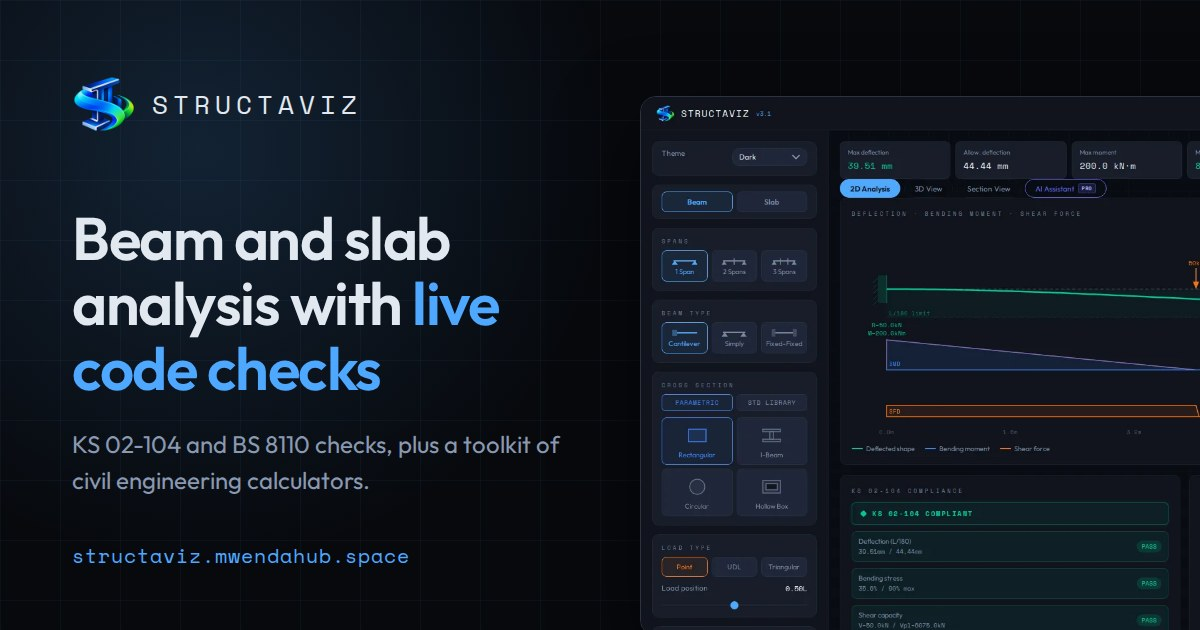
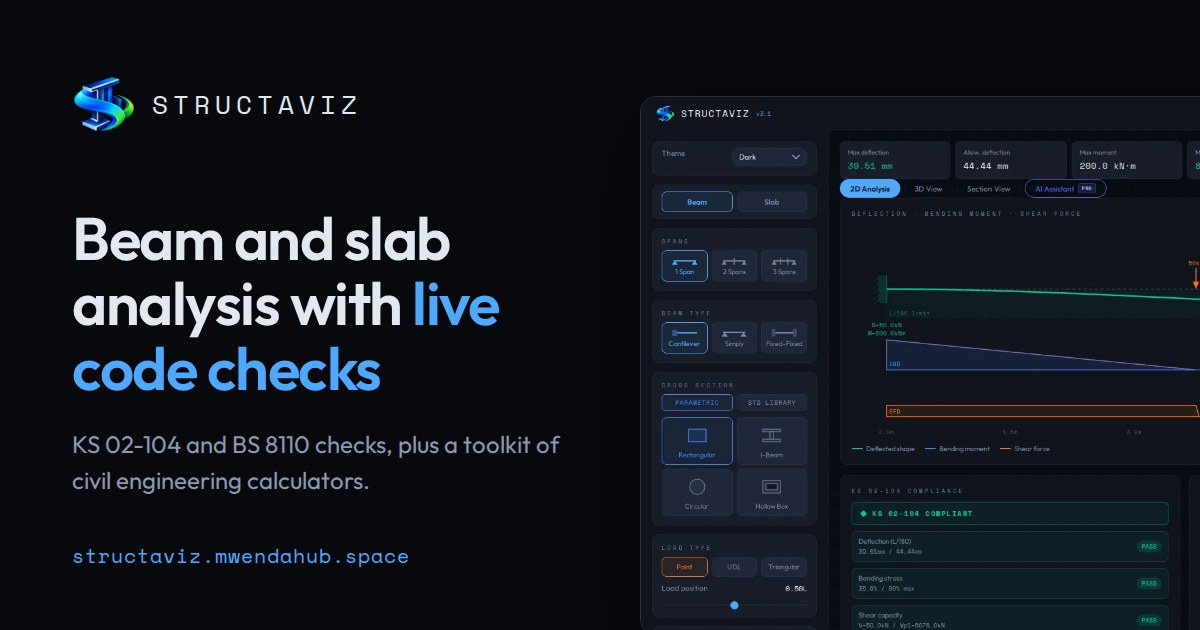
Remove gradient

Changed region(s): [[0.0308, 0.0, 0.3083, 0.5127], [0.1233, 0.5127, 0.185, 0.573]]

diff --git a/index.html b/index.html
@@ -60,8 +60,6 @@ a{color:inherit}
 
 /* ---------- Hero ---------- */
 .hero{position:relative;padding:84px 0 40px;text-align:center;overflow:hidden}
-.hero::before{content:"";position:absolute;inset:0;background-image:linear-gradient(rgba(79,168,255,.035) 1px,transparent 1px),linear-gradient(90deg,rgba(79,168,255,.035) 1px,transparent 1px);background-size:60px 60px;-webkit-mask-image:radial-gradient(ellipse 70% 60% at 50% 30%,#000,transparent);mask-image:radial-gradient(ellipse 70% 60% at 50% 30%,#000,transparent);pointer-events:none}
-.hero::after{content:"";position:absolute;width:760px;height:760px;left:50%;top:-240px;transform:translateX(-50%);background:radial-gradient(circle,rgba(79,168,255,.08),transparent 68%);pointer-events:none}
 .hero .wrap{position:relative;z-index:1}
 .eyebrow{display:inline-block;font:700 11px var(--mono);letter-spacing:.16em;text-transform:uppercase;color:var(--brand)}
 .hero .eyebrow{padding:6px 14px;border:1px solid rgba(79,168,255,.35);border-radius:999px;margin-bottom:26px}
@@ -73,12 +71,23 @@ h1 span{color:var(--brand)}
 .meta span::before{content:"";display:inline-block;width:5px;height:9px;margin-right:9px;border:solid var(--ok);border-width:0 2px 2px 0;transform:rotate(45deg) translateY(-2px)}
 
 .shot{position:relative;margin:54px auto 0;width:min(1100px,100%)}
-.frame{border:1px solid var(--bd2);border-radius:14px;overflow:hidden;background:var(--bg2);box-shadow:0 30px 80px rgba(0,0,0,.55),0 0 0 1px rgba(79,168,255,.05)}
+.frame{border:1px solid var(--bd2);border-radius:14px;overflow:hidden;background:var(--bg2);box-shadow:0 24px 60px rgba(0,0,0,.45)}
 .frame-bar{display:flex;gap:7px;padding:11px 14px;background:var(--bg3);border-bottom:1px solid var(--bd)}
 .frame-bar i{width:10px;height:10px;border-radius:50%;background:rgba(150,180,220,.22)}
 .frame img{width:100%;aspect-ratio:1440/860}
-.phone{position:absolute;right:-22px;bottom:-46px;width:21%;border:5px solid #1a2130;border-radius:26px;overflow:hidden;background:var(--bg2);box-shadow:0 24px 60px rgba(0,0,0,.6)}
-.phone img{width:100%;aspect-ratio:780/1520}
+
+/* iPhone mockup: sized from its own width, so it scales cleanly */
+.phone{position:absolute;right:-1.5%;bottom:-48px;width:23%;container-type:inline-size}
+.iphone{position:relative;background:#1d1d1f;border:.55cqw solid #48484c;border-radius:15.8cqw;padding:2.6cqw;box-shadow:0 22px 50px rgba(0,0,0,.5)}
+.iphone .sb{position:absolute;width:1cqw;background:#3a3a3e;border-radius:.5cqw;z-index:-1}
+.sb.a{left:-1.35cqw;top:19cqw;height:6cqw}.sb.v1{left:-1.35cqw;top:30cqw;height:10.5cqw}.sb.v2{left:-1.35cqw;top:43cqw;height:10.5cqw}.sb.p{right:-1.35cqw;top:36cqw;height:17cqw}
+.screen{position:relative;aspect-ratio:390/844;background:#07090d;border-radius:12.4cqw;overflow:hidden;container-type:inline-size;box-shadow:0 0 0 1.4cqw #000}
+.screen img{position:absolute;left:0;top:12.05cqw;width:100%;height:auto;aspect-ratio:780/1520}
+.island{position:absolute;z-index:2;left:50%;top:2.8cqw;width:32.3cqw;height:9.5cqw;margin-left:-16.15cqw;background:#000;border-radius:5cqw}
+.status{position:absolute;z-index:1;left:0;right:0;top:0;height:12.05cqw;display:flex;align-items:center;justify-content:space-between;padding:1.6cqw 7.2cqw 0 10cqw;color:#fff;font:600 4.15cqw/1 -apple-system,"SF Pro Text",system-ui,"Segoe UI",sans-serif}
+.status .sys{display:flex;align-items:center;gap:1.5cqw}
+.status svg{height:3.1cqw;width:auto;fill:currentColor;display:block}
+.home{position:absolute;z-index:2;left:50%;bottom:2.3cqw;width:35cqw;height:1.35cqw;margin-left:-17.5cqw;border-radius:2cqw;background:#fff;opacity:.9}
 
 /* ---------- Sections ---------- */
 section{padding:92px 0}
@@ -97,7 +106,7 @@ h2{font:600 clamp(28px,3.6vw,40px)/1.15 var(--sans);letter-spacing:-.02em;margin
 
 /* Pro */
 .pro{padding:0 0 92px}
-.pro-box{border:1px solid var(--pro-bd);border-radius:18px;padding:40px;background:linear-gradient(135deg,rgba(99,102,241,.10),rgba(99,102,241,.02) 60%)}
+.pro-box{border:1px solid var(--pro-bd);border-radius:18px;padding:40px;background:var(--bg2)}
 .pro-top{display:flex;align-items:center;gap:12px;flex-wrap:wrap}
 .badge{font:700 10px var(--mono);letter-spacing:.14em;padding:3px 9px;border-radius:5px;color:var(--pro);background:rgba(99,102,241,.18);border:1px solid var(--pro-bd)}
 .pro-box h2{margin-top:0;font-size:clamp(24px,3vw,32px)}
@@ -109,10 +118,10 @@ h2{font:600 clamp(28px,3.6vw,40px)/1.15 var(--sans);letter-spacing:-.02em;margin
 .pro-item p{color:var(--mut);font-size:15px}
 
 /* Toolkit */
-.toolkit{background:linear-gradient(180deg,transparent,rgba(16,20,29,.6),transparent)}
+.toolkit{background:var(--bg2);border-block:1px solid var(--bd)}
 .tools{display:grid;grid-template-columns:repeat(5,1fr);gap:12px}
-.tool{display:flex;flex-direction:column;gap:6px;padding:18px;border:1px solid var(--bd);border-radius:12px;background:var(--bg2);text-decoration:none;transition:border-color .2s,transform .2s,background .2s}
-.tool:hover{border-color:var(--brand);background:var(--bg3);transform:translateY(-2px)}
+.tool{display:flex;flex-direction:column;gap:6px;padding:18px;border:1px solid var(--bd);border-radius:12px;background:var(--bg);text-decoration:none;transition:border-color .2s,transform .2s,background .2s}
+.tool:hover{border-color:var(--brand);transform:translateY(-2px)}
 .tool b{font:600 15px/1.3 var(--sans)}
 .tool span{font-size:13px;line-height:1.5;color:var(--mut)}
 .tools-more{display:flex;justify-content:center;margin-top:30px}
@@ -125,7 +134,7 @@ h2{font:600 clamp(28px,3.6vw,40px)/1.15 var(--sans);letter-spacing:-.02em;margin
 
 /* Closing call to action */
 .cta{padding:0 0 92px}
-.cta-box{text-align:center;border:1px solid var(--bd2);border-radius:20px;padding:64px 28px;background:radial-gradient(ellipse at 50% 0%,rgba(79,168,255,.10),transparent 65%),var(--bg2)}
+.cta-box{text-align:center;border:1px solid var(--bd2);border-radius:20px;padding:64px 28px;background:var(--bg2)}
 .cta-box p{color:var(--mut);margin:14px auto 0;max-width:460px}
 .cta-box .cta-row{margin-top:28px}
 
@@ -143,9 +152,9 @@ footer{border-top:1px solid var(--bd);padding:34px 0 40px}
 @media (max-width:719px){
   :root{--wrap:min(1200px,100% - 32px)}
   .hero{padding:52px 0 24px}.lead{font-size:16.5px}
-  .shot{margin-top:40px;width:min(290px,78vw)}
-  .frame{border:5px solid #1a2130;border-radius:28px}.frame-bar{display:none}
-  .frame img{aspect-ratio:780/1520}.phone{display:none}
+  .shot{margin-top:40px;width:auto}
+  .frame{display:none}
+  .phone{position:relative;right:auto;bottom:auto;width:min(300px,76vw);margin-inline:auto}
   section{padding:60px 0}.pro{padding-bottom:60px}.cta{padding-bottom:60px}
   .cards{grid-template-columns:1fr}.card{padding:22px}
   .pro-box{padding:26px 20px}
@@ -186,12 +195,26 @@ footer{border-top:1px solid var(--bd);padding:34px 0 40px}
     <div class="shot">
       <div class="frame">
         <div class="frame-bar" aria-hidden="true"><i></i><i></i><i></i></div>
-        <picture>
-          <source media="(max-width:719px)" srcset="assets/app-mobile.webp">
-          <img src="assets/app-desktop.webp" width="1440" height="860" alt="StructaViz showing a cantilever beam with deflection, bending moment and shear force diagrams, and the KS&nbsp;02-104 compliance checks.">
-        </picture>
+        <img src="assets/app-desktop.webp" width="1440" height="860" loading="lazy" alt="StructaViz showing a cantilever beam with deflection, bending moment and shear force diagrams, and the KS&nbsp;02-104 compliance checks.">
       </div>
-      <div class="phone" aria-hidden="true"><img src="assets/app-mobile.webp" width="780" height="1520" alt="" loading="lazy"></div>
+      <div class="phone">
+        <div class="iphone">
+          <span class="sb a"></span><span class="sb v1"></span><span class="sb v2"></span><span class="sb p"></span>
+          <div class="screen">
+            <div class="island"></div>
+            <div class="status" aria-hidden="true">
+              <span>9:41</span>
+              <span class="sys">
+                <svg viewBox="0 0 18 12"><rect y="8" width="3" height="4" rx=".8"/><rect x="5" y="5.5" width="3" height="6.5" rx=".8"/><rect x="10" y="3" width="3" height="9" rx=".8"/><rect x="15" width="3" height="12" rx=".8"/></svg>
+                <svg viewBox="0 0 17 12"><path d="M8.5 2.3c2.5 0 4.7 1 6.3 2.6l1-1.1A10.4 10.4 0 0 0 8.5.8 10.4 10.4 0 0 0 1.2 3.8l1 1.1a8.9 8.9 0 0 1 6.3-2.6zm0 3.5c1.5 0 2.8.6 3.8 1.5l1-1.1a7.4 7.4 0 0 0-9.6 0l1 1.1c1-.9 2.3-1.5 3.8-1.5zm0 3.4c-.7 0-1.3.3-1.8.7l1.8 2 1.8-2c-.5-.4-1.1-.7-1.8-.7z"/></svg>
+                <svg viewBox="0 0 27 12"><rect x=".5" y=".5" width="22" height="11" rx="3.2" fill="none" stroke="currentColor" opacity=".4"/><rect x="2" y="2" width="19" height="8" rx="2"/><path d="M24 4v4c.9-.3 1.6-1.1 1.6-2S24.9 4.3 24 4z" opacity=".45"/></svg>
+              </span>
+            </div>
+            <img src="assets/app-mobile.webp" width="780" height="1520" alt="StructaViz on a phone, showing the KS&nbsp;02-104 compliance status, key results and the beam diagrams.">
+            <div class="home"></div>
+          </div>
+        </div>
+      </div>
     </div>
   </div>
 </section>
